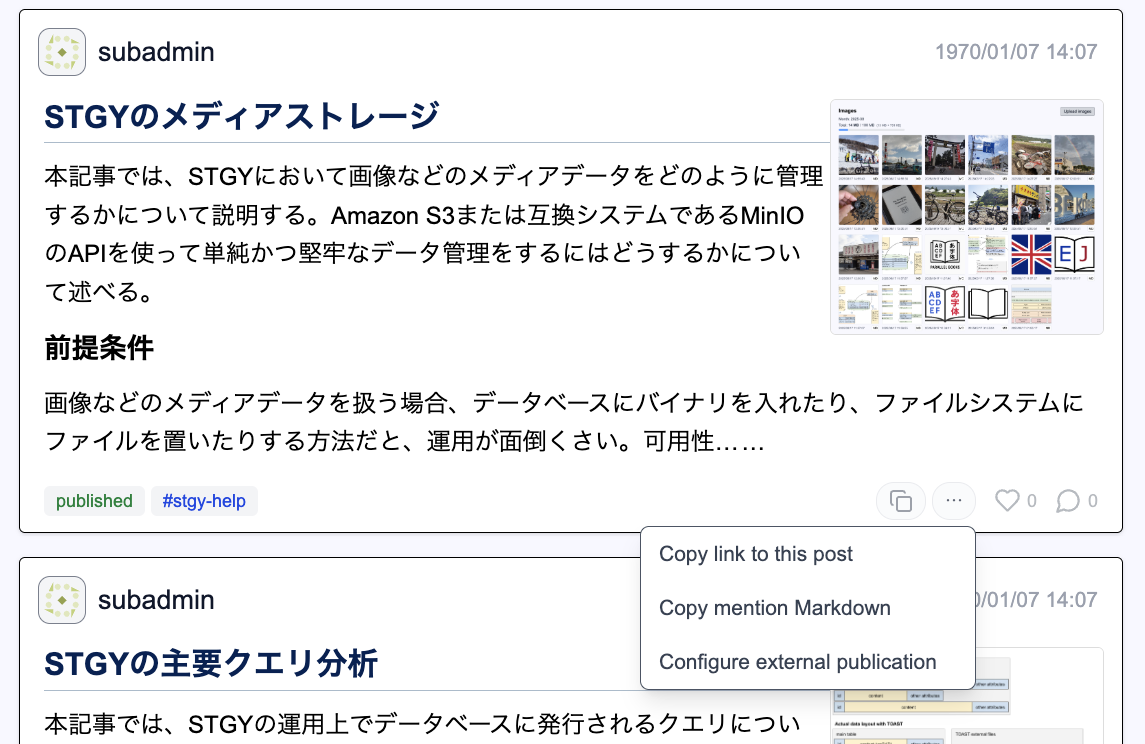
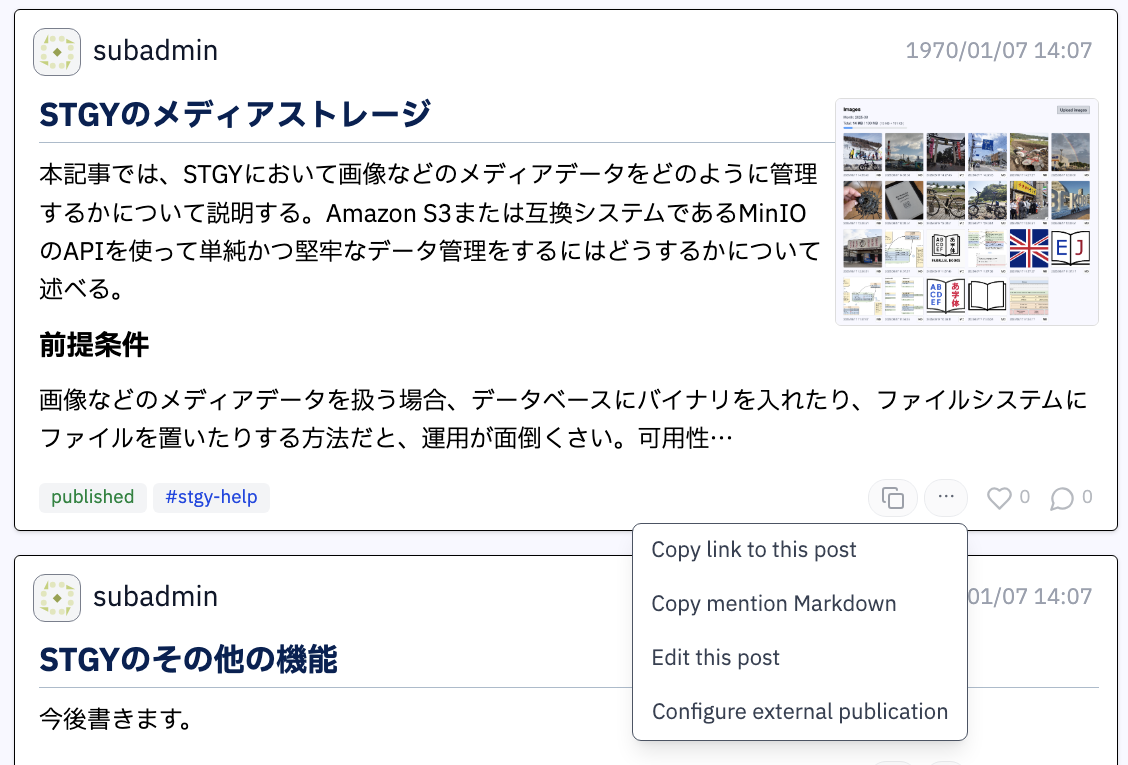
Add Edit menu

diff --git a/frontend/src/components/PostCard.tsx b/frontend/src/components/PostCard.tsx
@@ -1,6 +1,6 @@
 "use client";
 
-import { useRouter } from "next/navigation";
+import { useRouter, usePathname, useSearchParams } from "next/navigation";
 import { useRef, useMemo, useEffect, useState, useCallback } from "react";
 import PrismHighlighter from "@/components/PrismHighlighter";
 import type { Post, PostDetail } from "@/api/models";
@@ -48,6 +48,8 @@ export default function PostCard({
   idPrefix,
 }: PostCardProps) {
   const router = useRouter();
+  const pathname = usePathname();
+  const searchParams = useSearchParams();
   const contentRef = useRef<HTMLDivElement | null>(null);
   const hasContent =
     "content" in post && typeof post.content === "string" && post.content.length > 0;
@@ -336,6 +338,9 @@ export default function PostCard({
   const isOwner = focusUserId && focusUserId === post.ownedBy;
   const canConfigurePublication = Boolean(isOwner || focusUserIsAdmin);
 
+  const isOnSelfDetailPage = pathname === `/posts/${post.id}`;
+  const isAlreadyEditMode = isOnSelfDetailPage && searchParams.get("mode") === "edit";
+
   const copyMenu = (
     <div
       ref={copyMenuRef}
@@ -397,9 +402,32 @@ export default function PostCard({
       >
         Copy mention Markdown
       </button>
+      <button
+        className="w-full text-left px-3 py-2 text-sm text-gray-700 hover:bg-gray-100 rounded"
+        onClick={() => {
+          const href = `/posts/${post.id}?mode=edit`;
+
+          // すでに /posts/{id}?mode=edit にいる場合は何もしない（スクロールジャンプ防止）
+          if (isAlreadyEditMode) {
+            setMenuOpen(false);
+            return;
+          }
+
+          // 詳細画面から mode=edit に切り替えるときは scroll: false
+          if (isOnSelfDetailPage) {
+            router.push(href, { scroll: false });
+          } else {
+            router.push(href);
+          }
+
+          setMenuOpen(false);
+        }}
+      >
+        Edit this post
+      </button>
       {canConfigurePublication && (
         <button
-          className="w-full text-left px-3 py-2 text-sm text-gray-700 hover:bg-gray-100 rounded"
+          className="w-full text左 px-3 py-2 text-sm text-gray-700 hover:bg-gray-100 rounded"
           onClick={() => {
             setMenuOpen(false);
             setPubDialogOpen(true);
@@ -413,7 +441,9 @@ export default function PostCard({
 
   return (
     <article
-      className={`p-2 sm:pt-4 sm:pb-2 sm:pl-4 sm:pr-3 border rounded bg-white shadow-sm ${clickable ? "cursor-pointer" : ""} ${className}`}
+      className={`p-2 sm:pt-4 sm:pb-2 sm:pl-4 sm:pr-3 border rounded bg-white shadow-sm ${
+        clickable ? "cursor-pointer" : ""
+      } ${className}`}
       onClick={clickable && !pubDialogOpen ? handleCardClick : undefined}
       tabIndex={clickable ? 0 : -1}
       role={clickable ? "button" : undefined}
